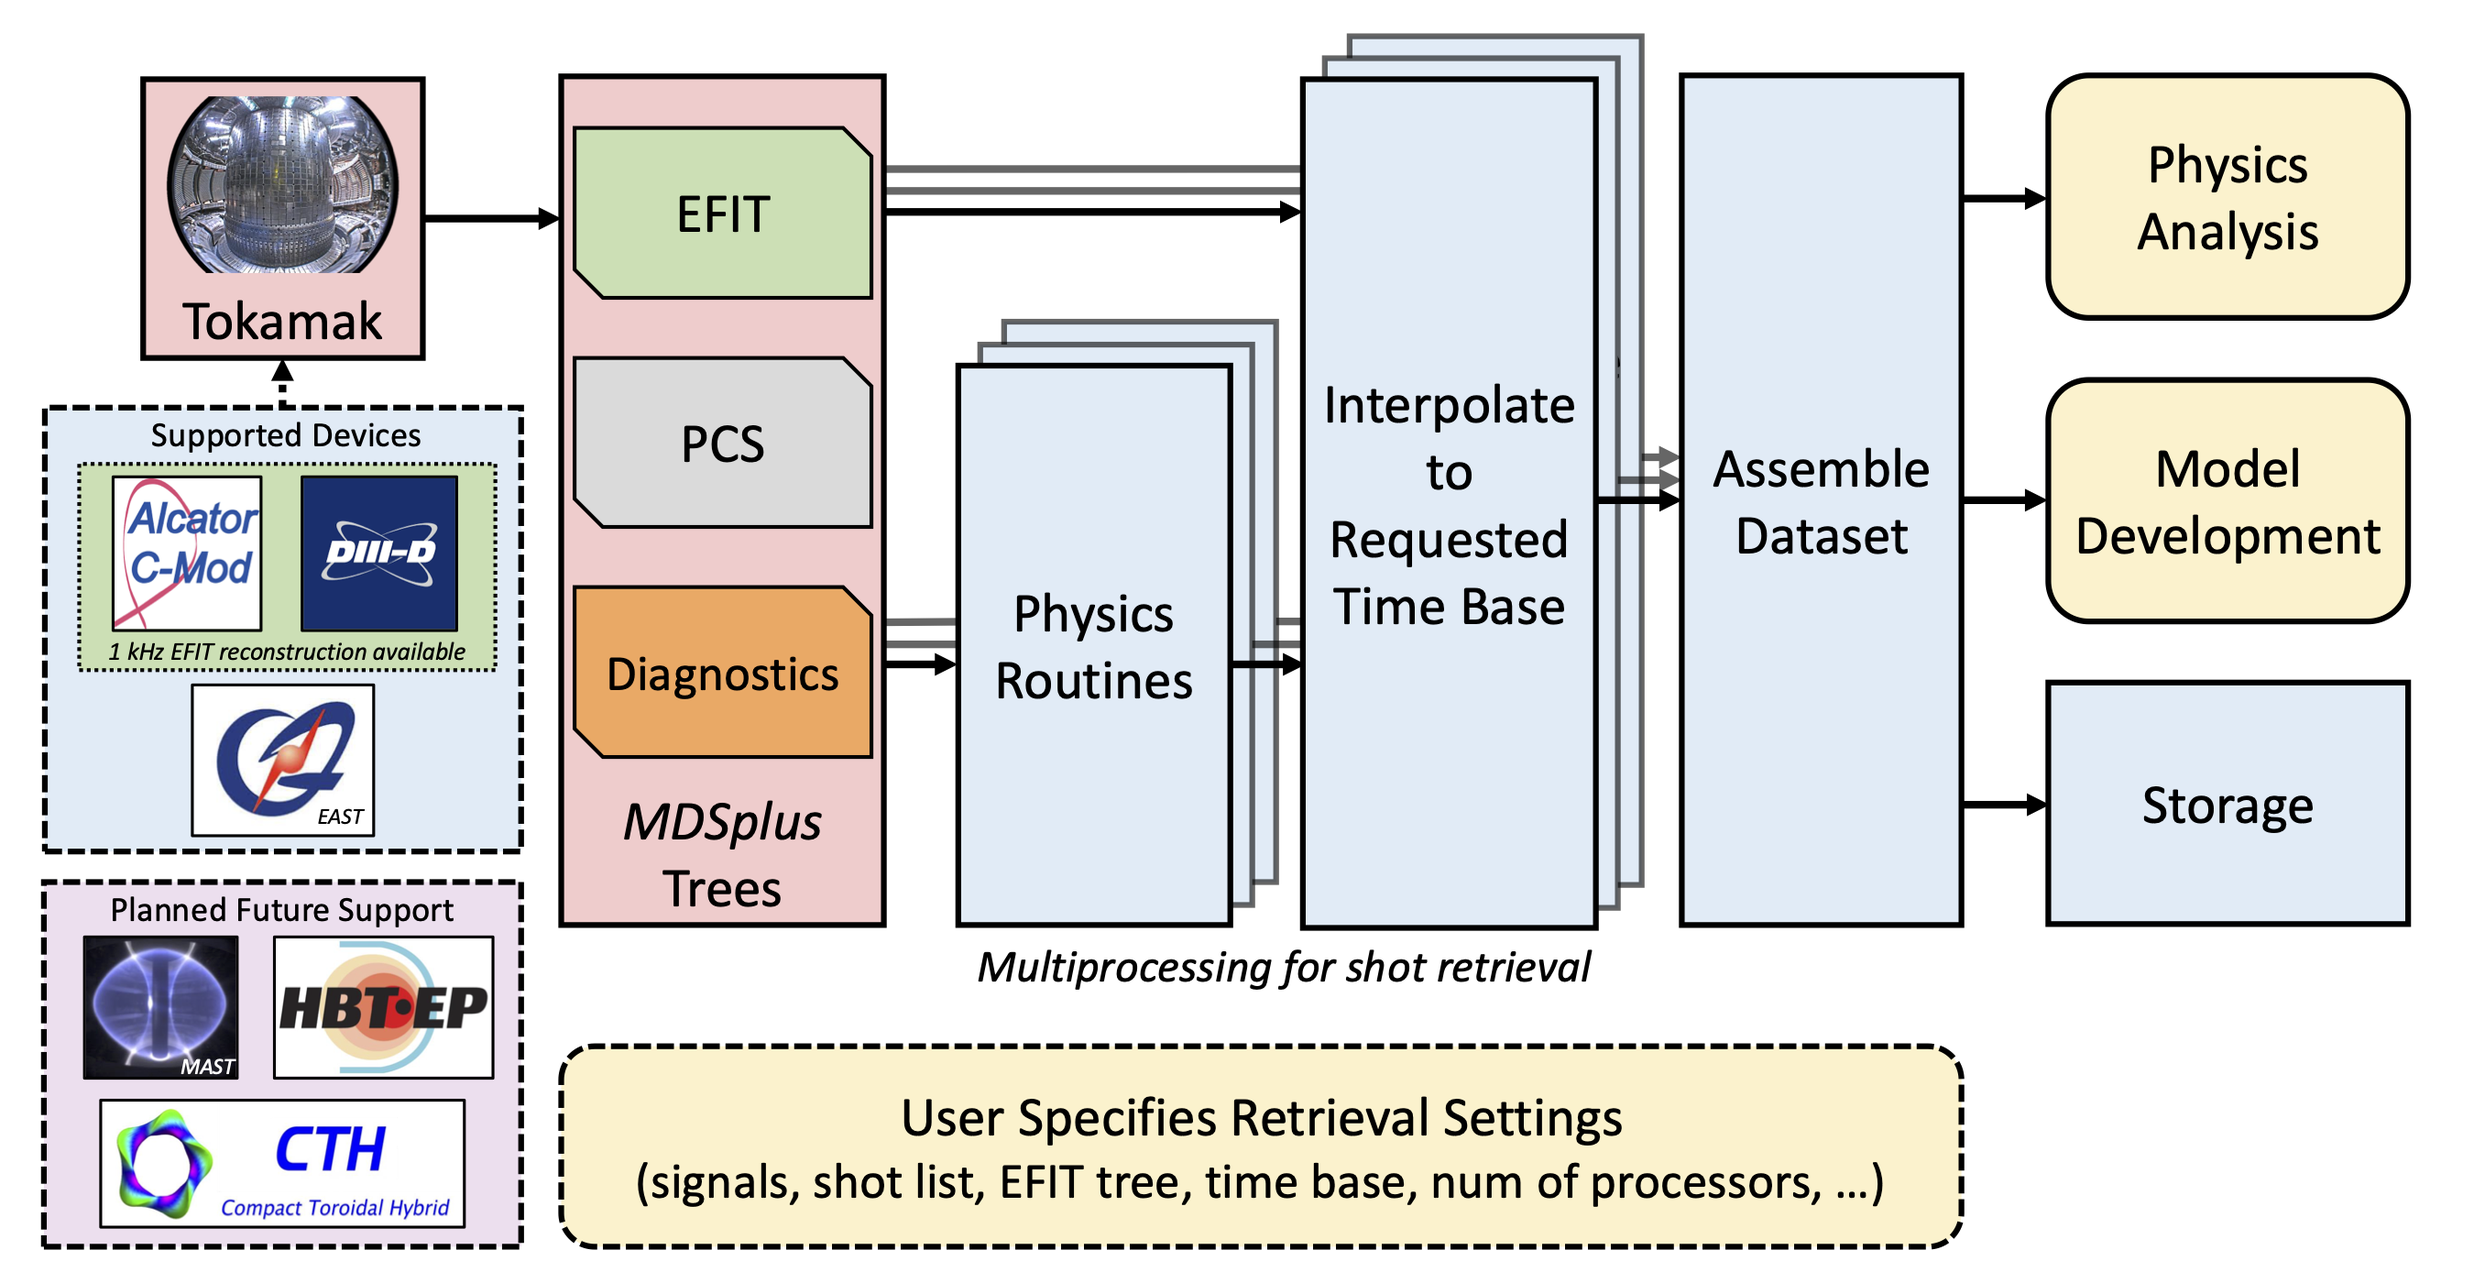
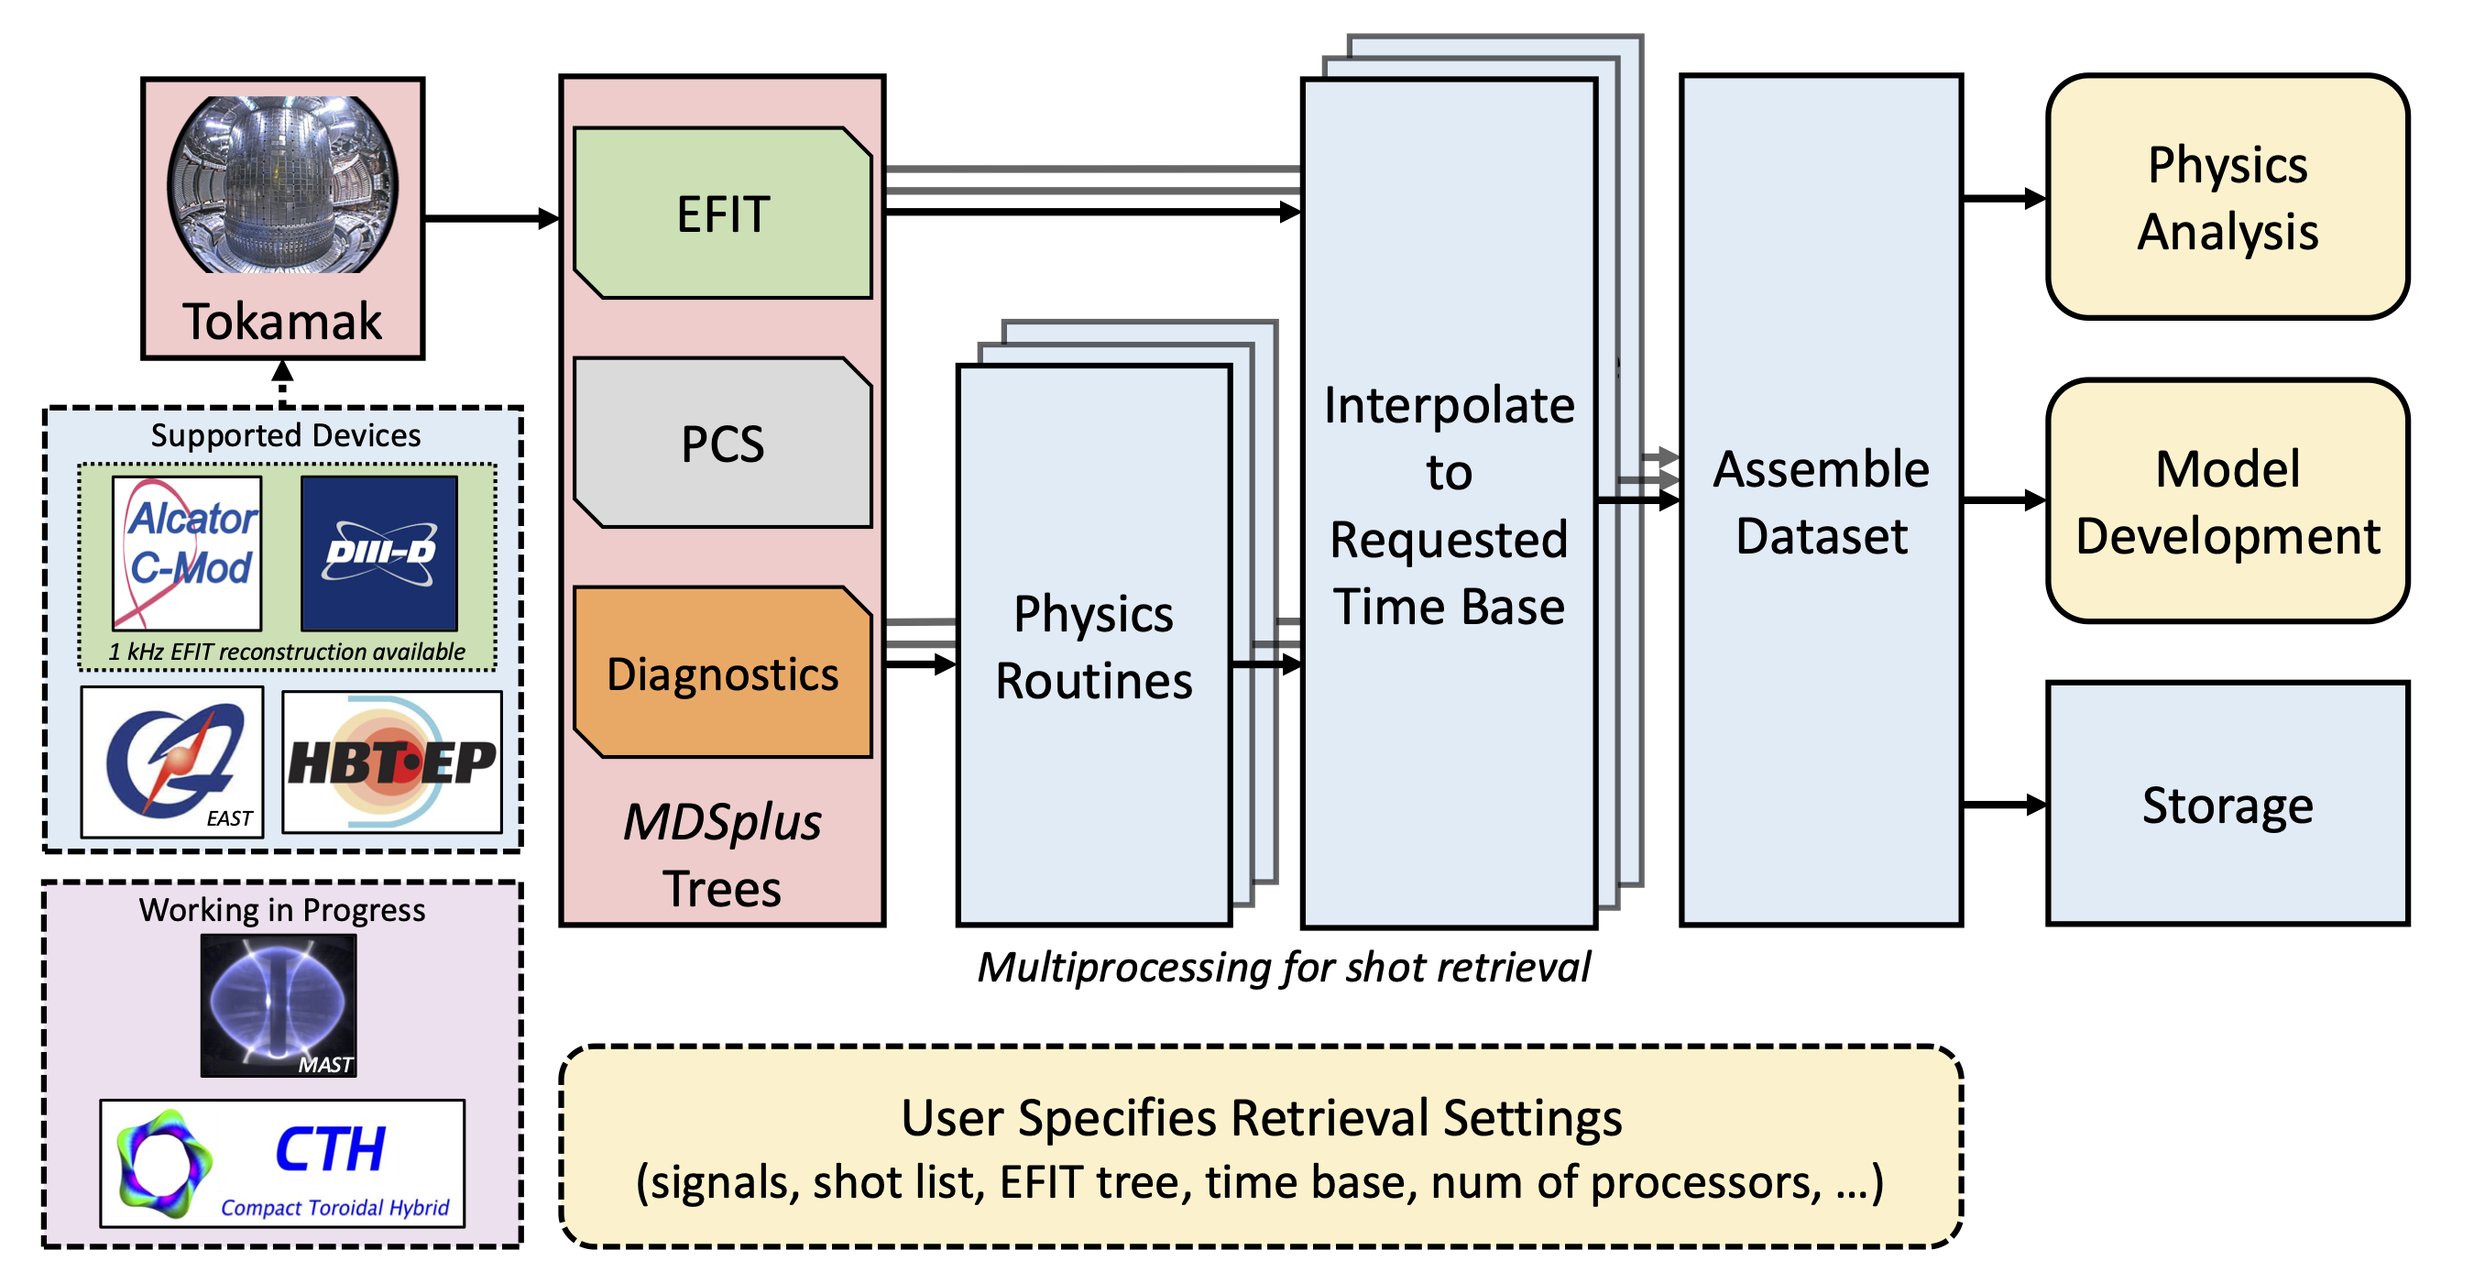
Minor documentation tweaks (#486)
* move install.md back into main folder

* add shortcut to install in docs

* add references to main menu

* prefer FLOSS to FOSS

* mark HBT-EP as supported, figure by Y Wei

Changed region(s): [[0.0311, 0.7064, 0.2178, 0.86], [0.0311, 0.5221, 0.2178, 0.6757]]

diff --git a/docs/INSTALL.md b/docs/INSTALL.md
@@ -1,185 +1,1 @@
-
-# Installation
-
-Several _public_ installations are currently maintained automatically:
-
-- on the C-MOD MFE workstations,
-- on the DIII-D `omega` cluster,
-- on the EAST `cs` servers,
-- on the HBT-EP `landau` server.
-
-A _private_ installation is possible on any machine, either on a personal laptop, or on any experimental cluster.
-
-## Public installations
-
-The MIT PSFC Disruption Studies Group hosts a `disruption-py` installation in a NFS folder.
-The following steps apply to both C-MOD workstations and the DIII-D cluster.
-
-Snippets for quick addition to a user's `.bashrc` file are provided in the subsections below.
-
-#### Python
-
-A minimal Python 3.12 distribution is installed in the `"$DISPY_DIR"/cpython/3.12` folder, and can be used in order to create further virtual environments.
-
-#### Dependency management
-
-We use [Poetry](https://python-poetry.org/) and [uv](https://docs.astral.sh/uv/) for dependency management.
-
-The helper scripts automatically activate the appropriate virtual environment, so direct Poetry or uv usage is not needed.
-They may be used directly from the `"$DISPY_DIR"/poetry` or `"$DISPY_DIR"/uv` folders.
-
-#### Branches
-
-Two branches are installed publicly and kept up to date:
-
-- `main`, for stable workflows;
-- `dev`, for fresh features.
-
-The target branch can be controlled through the `DISPY_BRANCH` environment variable. 
-
-#### Virtual environments
-
-For each branch, a Python 3.12 virtual environment is available for usage.
-
-The helper scripts will choose the appropriate virtual environment based on the `DISPY_BRANCH` environment variable.
-It may also be used directly from the `"$DISPY_DIR"/venv` folder.
-
-#### Setup and activation
-
-A setup script will set all the required environment variables to ensure functionality and reproducibility.
-It has to be _sourced_, rather than executed, through:
-
-```bash
-source "$DISPY_DIR"/repo/auto/setup.sh
-```
-
-More often, a user may choose to directly _activate_ the chosen virtual environment, through:
-
-```bash
-source "$DISPY_DIR"/repo/auto/activate.sh
-# or the alias defined in our snippet
-disruption-activate
-```
-
-The helper scripts rely on the user adopting the [Bash shell](https://www.gnu.org/software/bash/).
-
-#### Execution
-
-Even without setup or activation, execution can be invoked through `disruption-python`, which should work as a drop-in replacement for the usual `python` command.
-Since `disruption-python` is an executable, its shorthand execution is made possible by the presence of the `"$DISPY_DIR"/repo/auto` folder within the `PATH` environment variable, as suggested in the installation-specific snippets below.
-
-For example, one may begin a disruption-py interactive session through:
-
-```bash
-disruption-python -ic "import disruption_py"
-```
-
-Or execute a disruption-py-based script through:
-
-```bash
-disruption-python workflow.py
-```
-
-A script can therefore be executed seamlessly through `disruption-python` by specifying a custom shebang:
-
-```
-user@host:~$ head -n1 workflow.py
-#!/usr/bin/env disruption-python
-
-user@host:~$ chmod +x workflow.py
-
-user@host:~$ ./workflow.py
-```
-
-All these helper scripts are subject to change -- we welcome any suggestion to make the process even smoother.
-
-### C-MOD
-
-Suggested snippet to be appended to the user's `~/.bashrc` file:
-
-```bash
-# disruption-py
-export DISPY_DIR=/usr/local/mfe/disruptions/disruption-py
-export DISPY_BRANCH=main # default. or dev  
-export PATH=$PATH:$DISPY_DIR/repo/auto:$DISPY_DIR/poetry/bin:$DISPY_DIR/uv
-alias disruption-activate='source "$DISPY_DIR"/repo/auto/activate.sh'
-```
-
-### DIII-D
-
-Suggested snippet to be appended to the user's `~/.bashrc` file:
-
-```bash
-# disruption-py
-export DISPY_DIR=/fusion/projects/disruption_warning/disruption-py
-export DISPY_BRANCH=main # default. or dev  
-export PATH=$PATH:$DISPY_DIR/repo/auto:$DISPY_DIR/poetry/bin:$DISPY_DIR/uv
-alias disruption-activate='source "$DISPY_DIR"/repo/auto/activate.sh'
-```
-
-### EAST
-
-Suggested snippet to be appended to the user's `~/.bashrc` file:
-
-```bash
-# disruption-py
-export DISPY_DIR=/project/disruption-py
-export DISPY_BRANCH=main # default. or dev
-export PATH=$PATH:$DISPY_DIR/repo/auto:$DISPY_DIR/poetry/bin:$DISPY_DIR/uv
-alias disruption-activate='source "$DISPY_DIR"/repo/auto/activate.sh'
-```
-
-### HBT-EP
-
-Suggested snippet to be appended to the user's `~/.bashrc` file:
-
-```bash
-# disruption-py
-export DISPY_DIR=/opt/hbt/disruptions/disruption-py
-export DISPY_BRANCH=main # default. or dev
-export PATH=$PATH:$DISPY_DIR/repo/auto:$DISPY_DIR/poetry/bin:$DISPY_DIR/uv
-alias disruption-activate='source "$DISPY_DIR"/repo/auto/activate.sh'
-```
-
-## Private installation
-
-As Free and Open-Source Software (FOSS), disruption-py can also be installed on any machine.
-We currently provide an installation guide for Ubuntu-based boxes, but generic Unix machines or Windows systems should support similar or equivalent steps. 
-
-### Pre-requisites
-
-Disruption-py currently needs non-python software to be installed as a pre-requisite:
-
-1. [MDSplus](https://www.mdsplus.org/): to connect to MDSplus data servers,
-2. SQL drivers: to connect to SQL database servers.
-
-MDSplus can be installed using their [installation guide](https://www.mdsplus.org/index.php/Downloads).
-
-On Ubuntu-based systems, SQL drivers might be installed for example through the [Microsoft ODBC Driver](https://learn.microsoft.com/en-us/sql/connect/odbc/linux-mac/installing-the-microsoft-odbc-driver-for-sql-server?view=sql-server-ver16) `msodbcsql18` package, or [FreeTDS](https://www.freetds.org/) `{tds,unix}odbc` packages.
-
-Note:
-
-On C-MOD workstations, MDSplus is pre-installed system-wide but its configuration is only set up for the system python through a small path file (e.g.: `/usr/lib/python3/dist-packages/mdsplus.pth`).
-For virtual environments, even those created off the system python, this small path file needs to be copied over in the `site-packages` folder (e.g.: `venv/lib/python3.10/site-packages/`) as it is _not inherited_ upon creation of the virtual environment.
-
-Alternatively, one might adopt the more standard and more obvious solution of adding the equivalent path to the `PYTHONPATH` environment variable, which does get read by virtual environments and inherited by subshells.
-
-### Requirements
-
-Python is obviously a requirement for disruption-py -- please make sure you are running the desired Python version before creating a new installation, e.g.:
-
-```bash
-which python
-```
-
-Python requirements should be installed from the Poetry-native lockfile `poetry.lock` committed to the repository in the main folder.
-If necessary, backward-compatible pip-style `requirements.txt` files can be produced through the [Poetry export command](https://python-poetry.org/docs/cli/#export).
-
-### Virtual environments
-
-We _strongly encourage_ users to create a specific virtual environment for disruption-py usage.
-If using Poetry, one will be created automatically, e.g.:
-
-```bash
-poetry install --with dev
-```
+--8<-- "INSTALL.md"

diff --git a/INSTALL.md b/INSTALL.md
@@ -1,0 +1,185 @@
+
+# Installation
+
+Several _public_ installations are currently maintained automatically:
+
+- on the C-MOD MFE workstations,
+- on the DIII-D `omega` cluster,
+- on the EAST `cs` servers,
+- on the HBT-EP `landau` server.
+
+A _private_ installation is possible on any machine, either on a personal laptop, or on any experimental cluster.
+
+## Public installations
+
+The MIT PSFC Disruption Studies Group hosts a `disruption-py` installation in a NFS folder.
+The following steps apply to both C-MOD workstations and the DIII-D cluster.
+
+Snippets for quick addition to a user's `.bashrc` file are provided in the subsections below.
+
+#### Python
+
+A minimal Python 3.12 distribution is installed in the `"$DISPY_DIR"/cpython/3.12` folder, and can be used in order to create further virtual environments.
+
+#### Dependency management
+
+We use [Poetry](https://python-poetry.org/) and [uv](https://docs.astral.sh/uv/) for dependency management.
+
+The helper scripts automatically activate the appropriate virtual environment, so direct Poetry or uv usage is not needed.
+They may be used directly from the `"$DISPY_DIR"/poetry` or `"$DISPY_DIR"/uv` folders.
+
+#### Branches
+
+Two branches are installed publicly and kept up to date:
+
+- `main`, for stable workflows;
+- `dev`, for fresh features.
+
+The target branch can be controlled through the `DISPY_BRANCH` environment variable. 
+
+#### Virtual environments
+
+For each branch, a Python 3.12 virtual environment is available for usage.
+
+The helper scripts will choose the appropriate virtual environment based on the `DISPY_BRANCH` environment variable.
+It may also be used directly from the `"$DISPY_DIR"/venv` folder.
+
+#### Setup and activation
+
+A setup script will set all the required environment variables to ensure functionality and reproducibility.
+It has to be _sourced_, rather than executed, through:
+
+```bash
+source "$DISPY_DIR"/repo/auto/setup.sh
+```
+
+More often, a user may choose to directly _activate_ the chosen virtual environment, through:
+
+```bash
+source "$DISPY_DIR"/repo/auto/activate.sh
+# or the alias defined in our snippet
+disruption-activate
+```
+
+The helper scripts rely on the user adopting the [Bash shell](https://www.gnu.org/software/bash/).
+
+#### Execution
+
+Even without setup or activation, execution can be invoked through `disruption-python`, which should work as a drop-in replacement for the usual `python` command.
+Since `disruption-python` is an executable, its shorthand execution is made possible by the presence of the `"$DISPY_DIR"/repo/auto` folder within the `PATH` environment variable, as suggested in the installation-specific snippets below.
+
+For example, one may begin a disruption-py interactive session through:
+
+```bash
+disruption-python -ic "import disruption_py"
+```
+
+Or execute a disruption-py-based script through:
+
+```bash
+disruption-python workflow.py
+```
+
+A script can therefore be executed seamlessly through `disruption-python` by specifying a custom shebang:
+
+```
+user@host:~$ head -n1 workflow.py
+#!/usr/bin/env disruption-python
+
+user@host:~$ chmod +x workflow.py
+
+user@host:~$ ./workflow.py
+```
+
+All these helper scripts are subject to change -- we welcome any suggestion to make the process even smoother.
+
+### C-MOD
+
+Suggested snippet to be appended to the user's `~/.bashrc` file:
+
+```bash
+# disruption-py
+export DISPY_DIR=/usr/local/mfe/disruptions/disruption-py
+export DISPY_BRANCH=main # default. or dev  
+export PATH=$PATH:$DISPY_DIR/repo/auto:$DISPY_DIR/poetry/bin:$DISPY_DIR/uv
+alias disruption-activate='source "$DISPY_DIR"/repo/auto/activate.sh'
+```
+
+### DIII-D
+
+Suggested snippet to be appended to the user's `~/.bashrc` file:
+
+```bash
+# disruption-py
+export DISPY_DIR=/fusion/projects/disruption_warning/disruption-py
+export DISPY_BRANCH=main # default. or dev  
+export PATH=$PATH:$DISPY_DIR/repo/auto:$DISPY_DIR/poetry/bin:$DISPY_DIR/uv
+alias disruption-activate='source "$DISPY_DIR"/repo/auto/activate.sh'
+```
+
+### EAST
+
+Suggested snippet to be appended to the user's `~/.bashrc` file:
+
+```bash
+# disruption-py
+export DISPY_DIR=/project/disruption-py
+export DISPY_BRANCH=main # default. or dev
+export PATH=$PATH:$DISPY_DIR/repo/auto:$DISPY_DIR/poetry/bin:$DISPY_DIR/uv
+alias disruption-activate='source "$DISPY_DIR"/repo/auto/activate.sh'
+```
+
+### HBT-EP
+
+Suggested snippet to be appended to the user's `~/.bashrc` file:
+
+```bash
+# disruption-py
+export DISPY_DIR=/opt/hbt/disruptions/disruption-py
+export DISPY_BRANCH=main # default. or dev
+export PATH=$PATH:$DISPY_DIR/repo/auto:$DISPY_DIR/poetry/bin:$DISPY_DIR/uv
+alias disruption-activate='source "$DISPY_DIR"/repo/auto/activate.sh'
+```
+
+## Private installation
+
+As Free/Libre and Open-Source Software (FLOSS), disruption-py can also be installed on any machine.
+We currently provide an installation guide for Ubuntu-based boxes, but generic Unix machines or Windows systems should support similar or equivalent steps. 
+
+### Pre-requisites
+
+Disruption-py currently needs non-python software to be installed as a pre-requisite:
+
+1. [MDSplus](https://www.mdsplus.org/): to connect to MDSplus data servers,
+2. SQL drivers: to connect to SQL database servers.
+
+MDSplus can be installed using their [installation guide](https://www.mdsplus.org/index.php/Downloads).
+
+On Ubuntu-based systems, SQL drivers might be installed for example through the [Microsoft ODBC Driver](https://learn.microsoft.com/en-us/sql/connect/odbc/linux-mac/installing-the-microsoft-odbc-driver-for-sql-server?view=sql-server-ver16) `msodbcsql18` package, or [FreeTDS](https://www.freetds.org/) `{tds,unix}odbc` packages.
+
+Note:
+
+On C-MOD workstations, MDSplus is pre-installed system-wide but its configuration is only set up for the system python through a small path file (e.g.: `/usr/lib/python3/dist-packages/mdsplus.pth`).
+For virtual environments, even those created off the system python, this small path file needs to be copied over in the `site-packages` folder (e.g.: `venv/lib/python3.10/site-packages/`) as it is _not inherited_ upon creation of the virtual environment.
+
+Alternatively, one might adopt the more standard and more obvious solution of adding the equivalent path to the `PYTHONPATH` environment variable, which does get read by virtual environments and inherited by subshells.
+
+### Requirements
+
+Python is obviously a requirement for disruption-py -- please make sure you are running the desired Python version before creating a new installation, e.g.:
+
+```bash
+which python
+```
+
+Python requirements should be installed from the Poetry-native lockfile `poetry.lock` committed to the repository in the main folder.
+If necessary, backward-compatible pip-style `requirements.txt` files can be produced through the [Poetry export command](https://python-poetry.org/docs/cli/#export).
+
+### Virtual environments
+
+We _strongly encourage_ users to create a specific virtual environment for disruption-py usage.
+If using Poetry, one will be created automatically, e.g.:
+
+```bash
+poetry install --with dev
+```

diff --git a/README.md b/README.md
@@ -102,7 +102,7 @@ uv add disruption-py
 pip install disruption-py
 ```
 
-For custom installations, please refer to our [Installation guide](docs/INSTALL.md).
+For custom installations, please refer to our [Installation guide](INSTALL.md).
 
 Starting with [v0.11](https://github.com/MIT-PSFC/disruption-py/releases/tag/v0.11), we support execution through [on-the-fly virtual environment creation with `uv`](https://docs.astral.sh/uv/guides/tools/):
 

diff --git a/docs/REFERENCES.md b/docs/REFERENCES.md
@@ -1,0 +1,1 @@
+--8<-- "REFERENCES.md"
